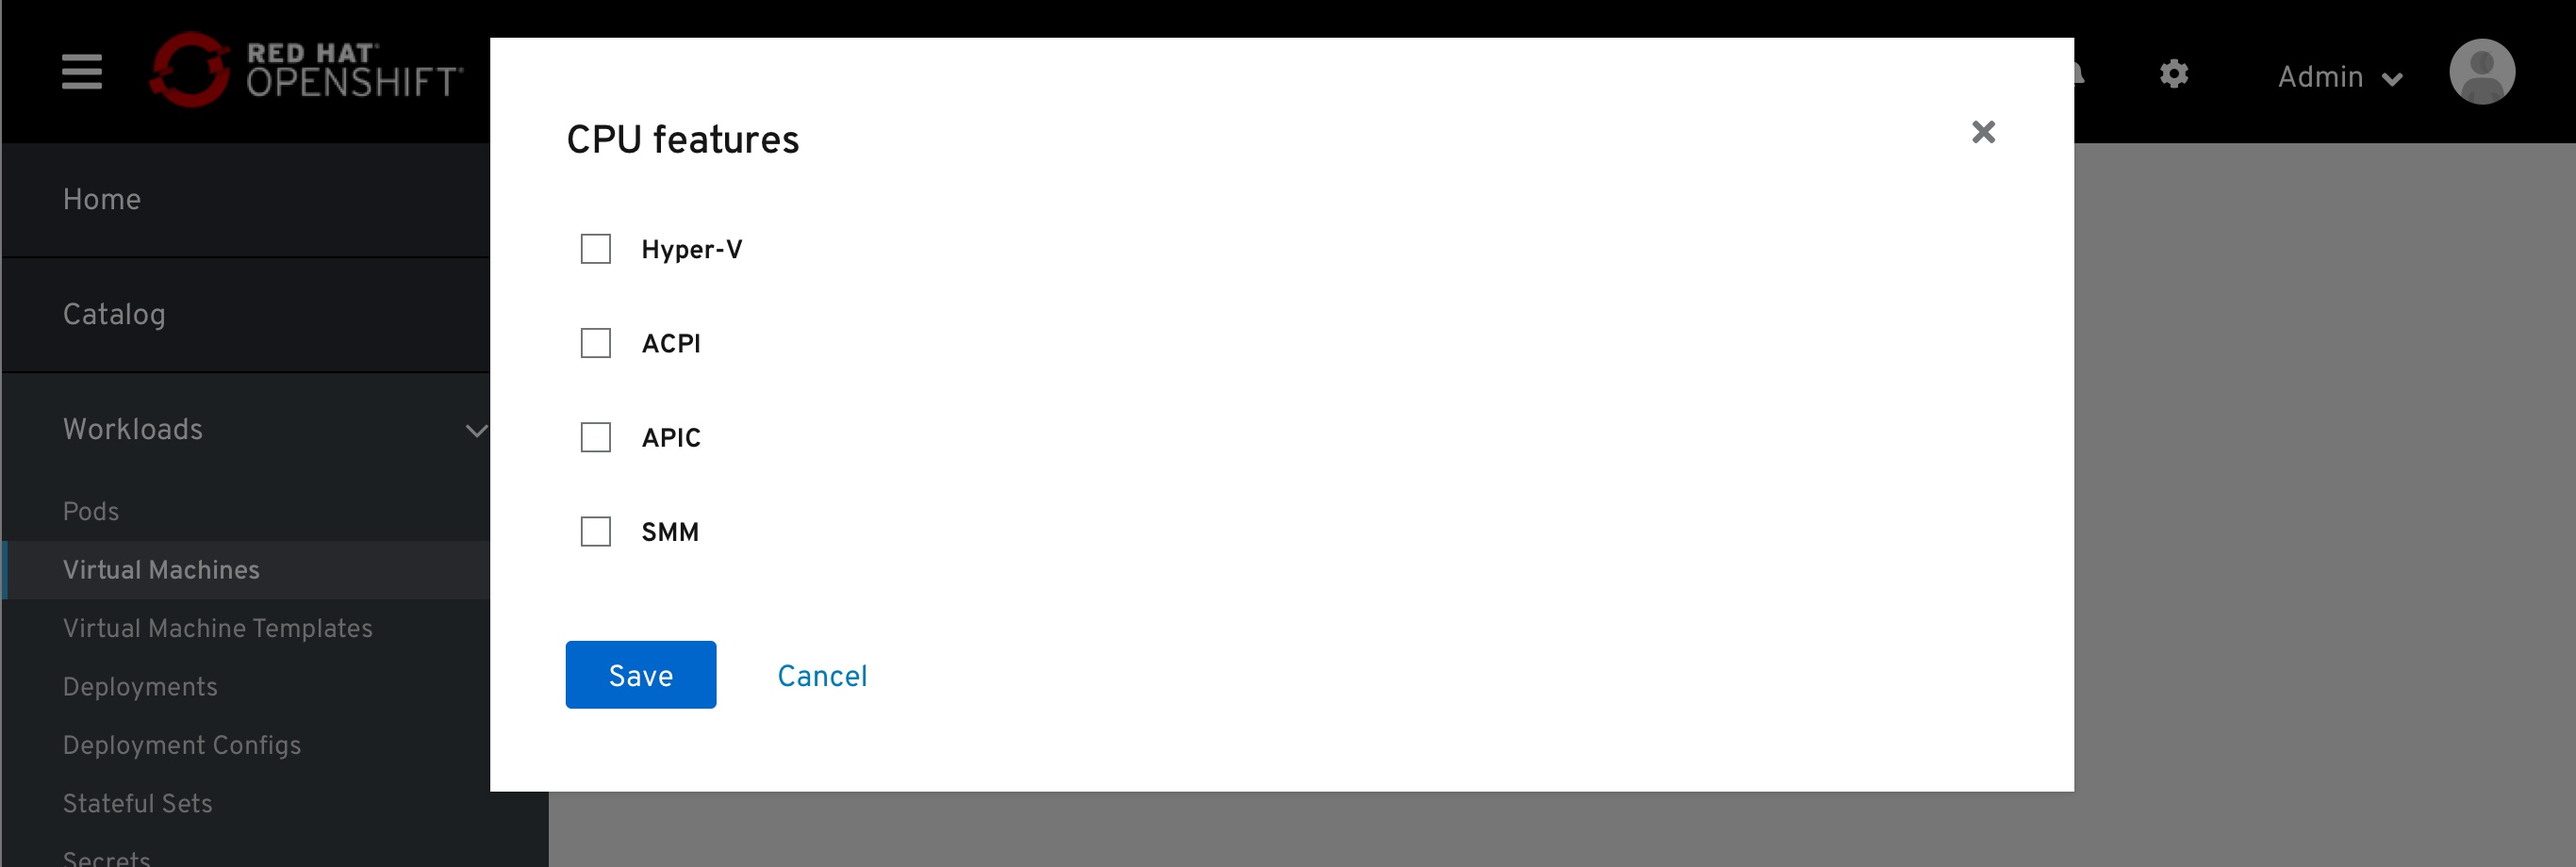
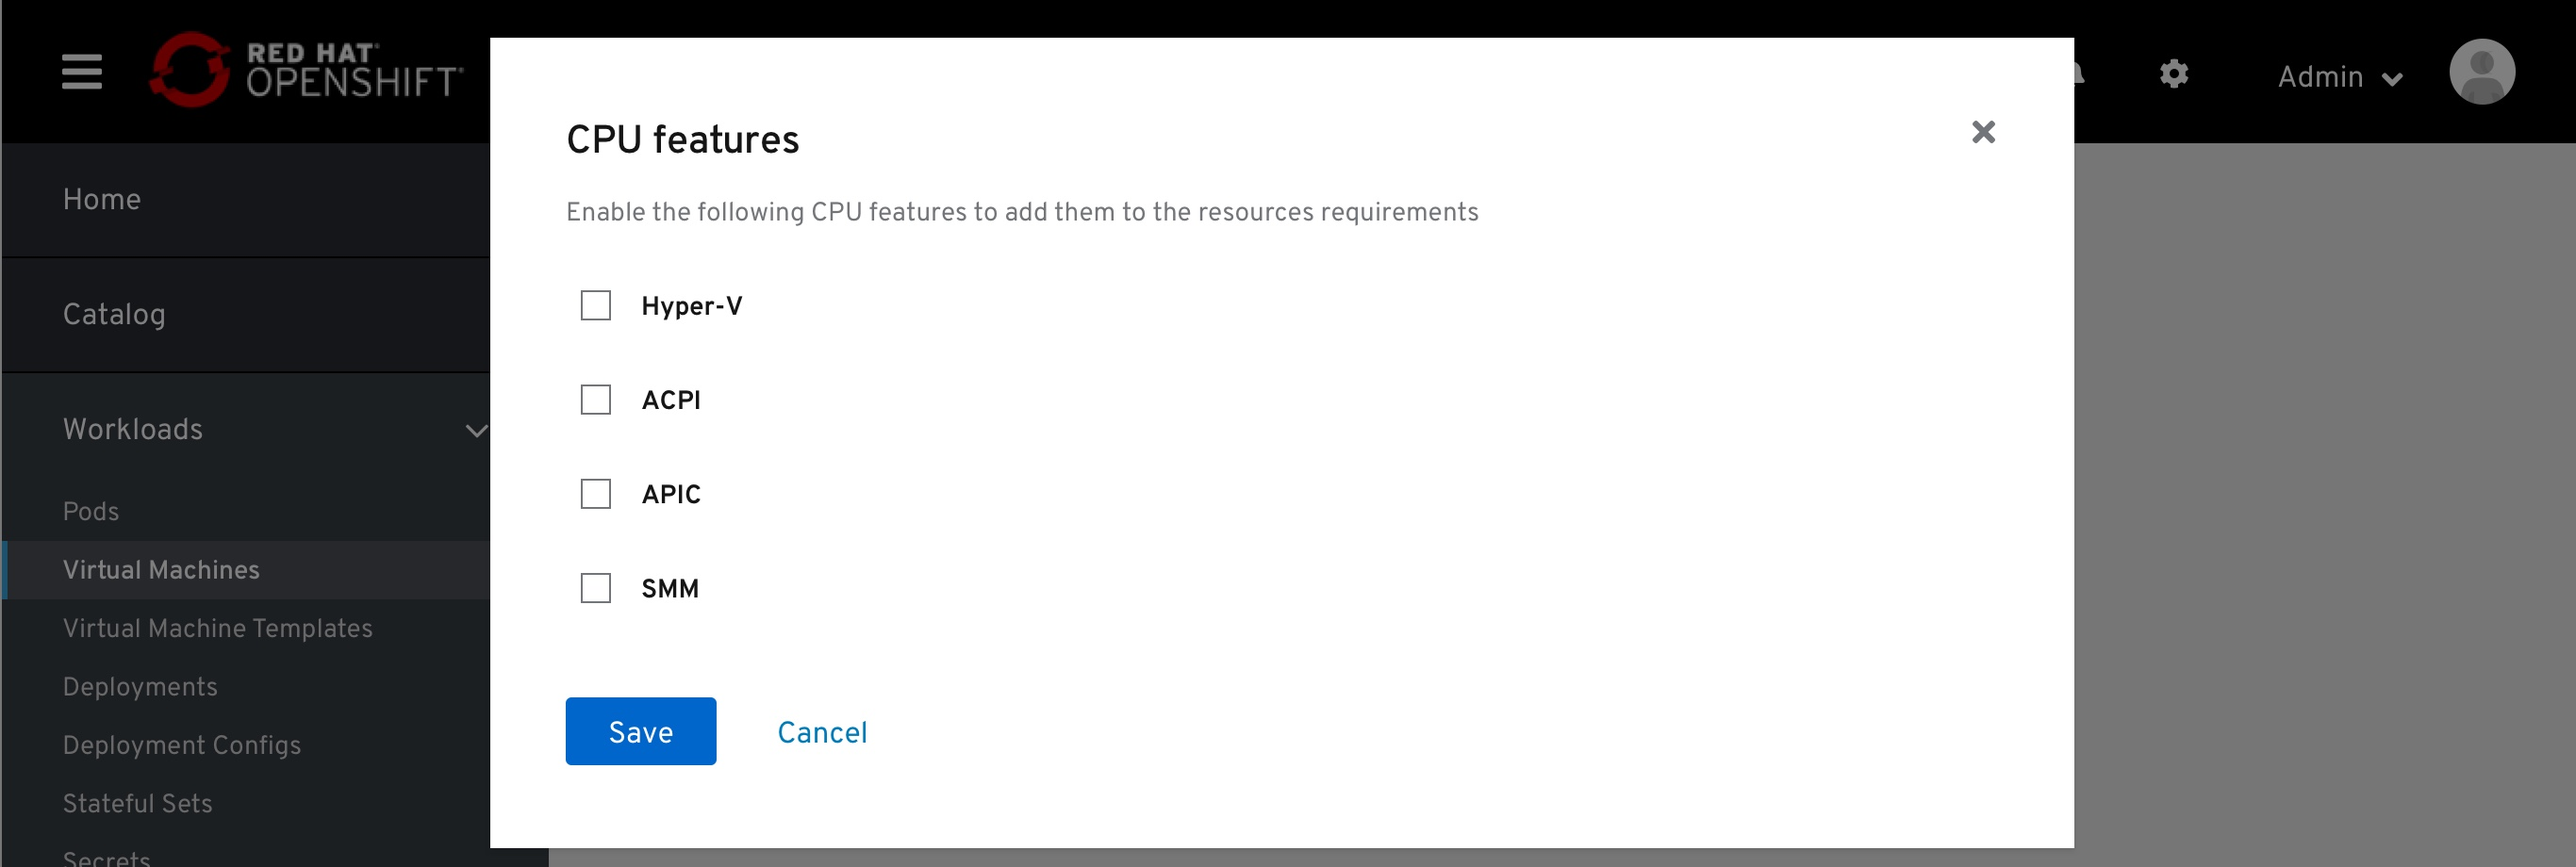
adding info for each feature

diff --git a/designs/virtualization/4.5/Scheduling/CPU-features/cpu-features.md b/designs/virtualization/4.5/Scheduling/CPU-features/cpu-features.md
@@ -22,6 +22,10 @@ CPU Features is placed in the Scheduling section of the VM Details tab.
 Currently, these features will be available to be included or excluded.
 By checking the checkbox, the user selects which features to include in the CPU requirement for this VM.
 
+![CPU features modal](img/CPU-features-1-1.jpg)
+Popovers for each feature.
+Link for all 'More info': https://kubevirt.io/api-reference/v0.26.0/definitions.html#_v1_features
+
 ![VM page CPU features customized](img/CPU-features-2-0.jpg)
 Customized display in-page.
 
